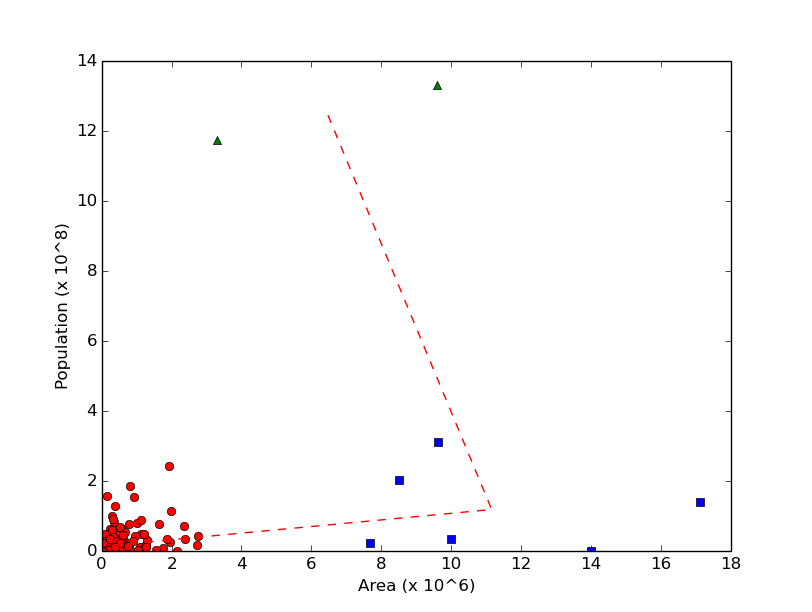
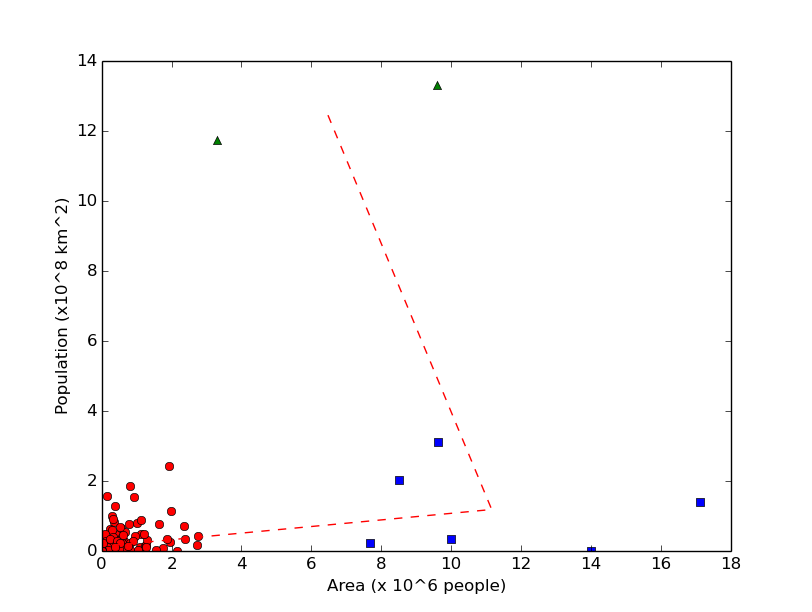
K mean clustering : prototype four
> Returns country list respective to particular cluster group.
> Add unit to resultant graph.

Changed region(s): [[0.0616, 0.3105, 0.0924, 0.683], [0.4002, 0.9314, 0.6158, 0.9935]]

diff --git a/Exercise/Discovering Groups/Clustering/k-mean/plotter.py b/Exercise/Discovering Groups/Clustering/k-mean/plotter.py
@@ -15,10 +15,16 @@ class Plotter:
     def add_data(self, data, index):
         x_data = []
         y_data = []
+        name_data = []
 
         for i in range(len(data)):
             x_data.append(data[i][0])
             y_data.append(data[i][1])
+            name_data.append(data[i][2])
+
+        print index
+        for country in name_data:
+            print country
 
         self.clusters[index] = [x_data, y_data]
 
@@ -33,7 +39,7 @@ class Plotter:
 
         plt.plot(c[0][0], c[0][1], 'ro', c[1][0], c[1][1], 'bs', c[2][0], c[2][1], 'g^', cen_x, cen_y, 'r--')
 
-        plt.ylabel('Population (x 10^8)')
-        plt.xlabel('Area (x 10^6)')
+        plt.ylabel('Population (x10^8 km^2)')
+        plt.xlabel('Area (x 10^6 people)')
 
         plt.show()

diff --git a/Exercise/Discovering Groups/Clustering/k-mean/clustering.py b/Exercise/Discovering Groups/Clustering/k-mean/clustering.py
@@ -50,7 +50,7 @@ class KMean:
             self.data = json.loads(f.read())
 
         for i in range(len(self.data)):
-            self.elements.append([(self.data[i]['area']) / 1000000, (self.data[i]['population']) / 100000000])
+            self.elements.append([(self.data[i]['area']) / 1000000, (self.data[i]['population']) / 100000000, self.data[i]['name']])
 
     def decide_limit(self):
         for i in range(len(self.data)):

diff --git a/Exercise/Discovering Groups/Clustering/k-mean/main.py b/Exercise/Discovering Groups/Clustering/k-mean/main.py
@@ -1,4 +1,4 @@
-from clustering import Cluster, KMean
+from clustering import KMean
 
 if __name__ == "__main__":
     kmean = KMean(3)

diff --git a/Exercise/Discovering Groups/Clustering/k-mean/README.md b/Exercise/Discovering Groups/Clustering/k-mean/README.md
@@ -1,0 +1,4 @@
+K-mean Clustering
+=================
+
+> This assignment apply the `K-mean clustering algorithm` on population density data of countries.
